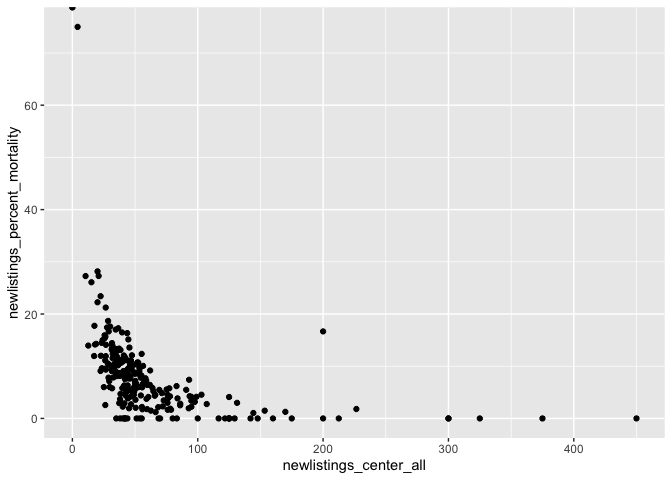
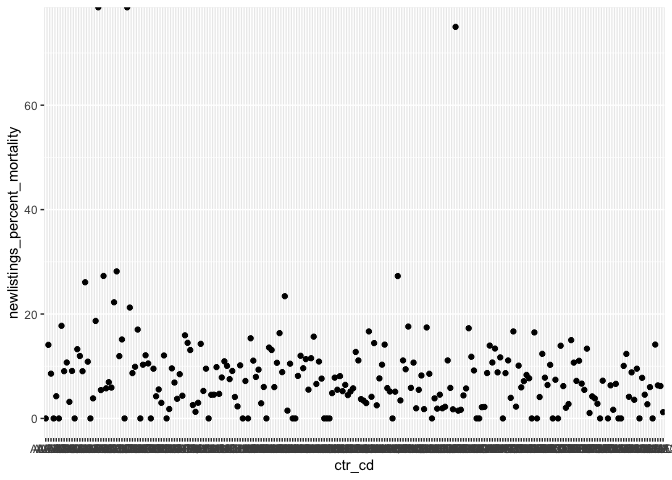
Another visualization, to test character columns.

Changed region(s): [[0.0312, 0.0, 1.0, 1.0]]

diff --git a/code/KidneyDataMS.md b/code/KidneyDataMS.md
@@ -295,7 +295,7 @@ str(df_one_dropna)
 ``` r
 df_one_plot = df_one_dropna %>% mutate(newlistings_percent_mortality = 100*died_center_all/newlistings_center_all)
 view(df_one_plot)
-df_one_plot %>% ggplot(aes(x=newlistings_center_all, y= newlistings_percent_mortality)) + geom_point()
+df_one_plot %>% group_by(ctr_cd) %>% ggplot(aes(x=ctr_cd, y = newlistings_percent_mortality)) + geom_point()
 ```
 
     ## Warning: Removed 1 rows containing missing values (geom_point).
